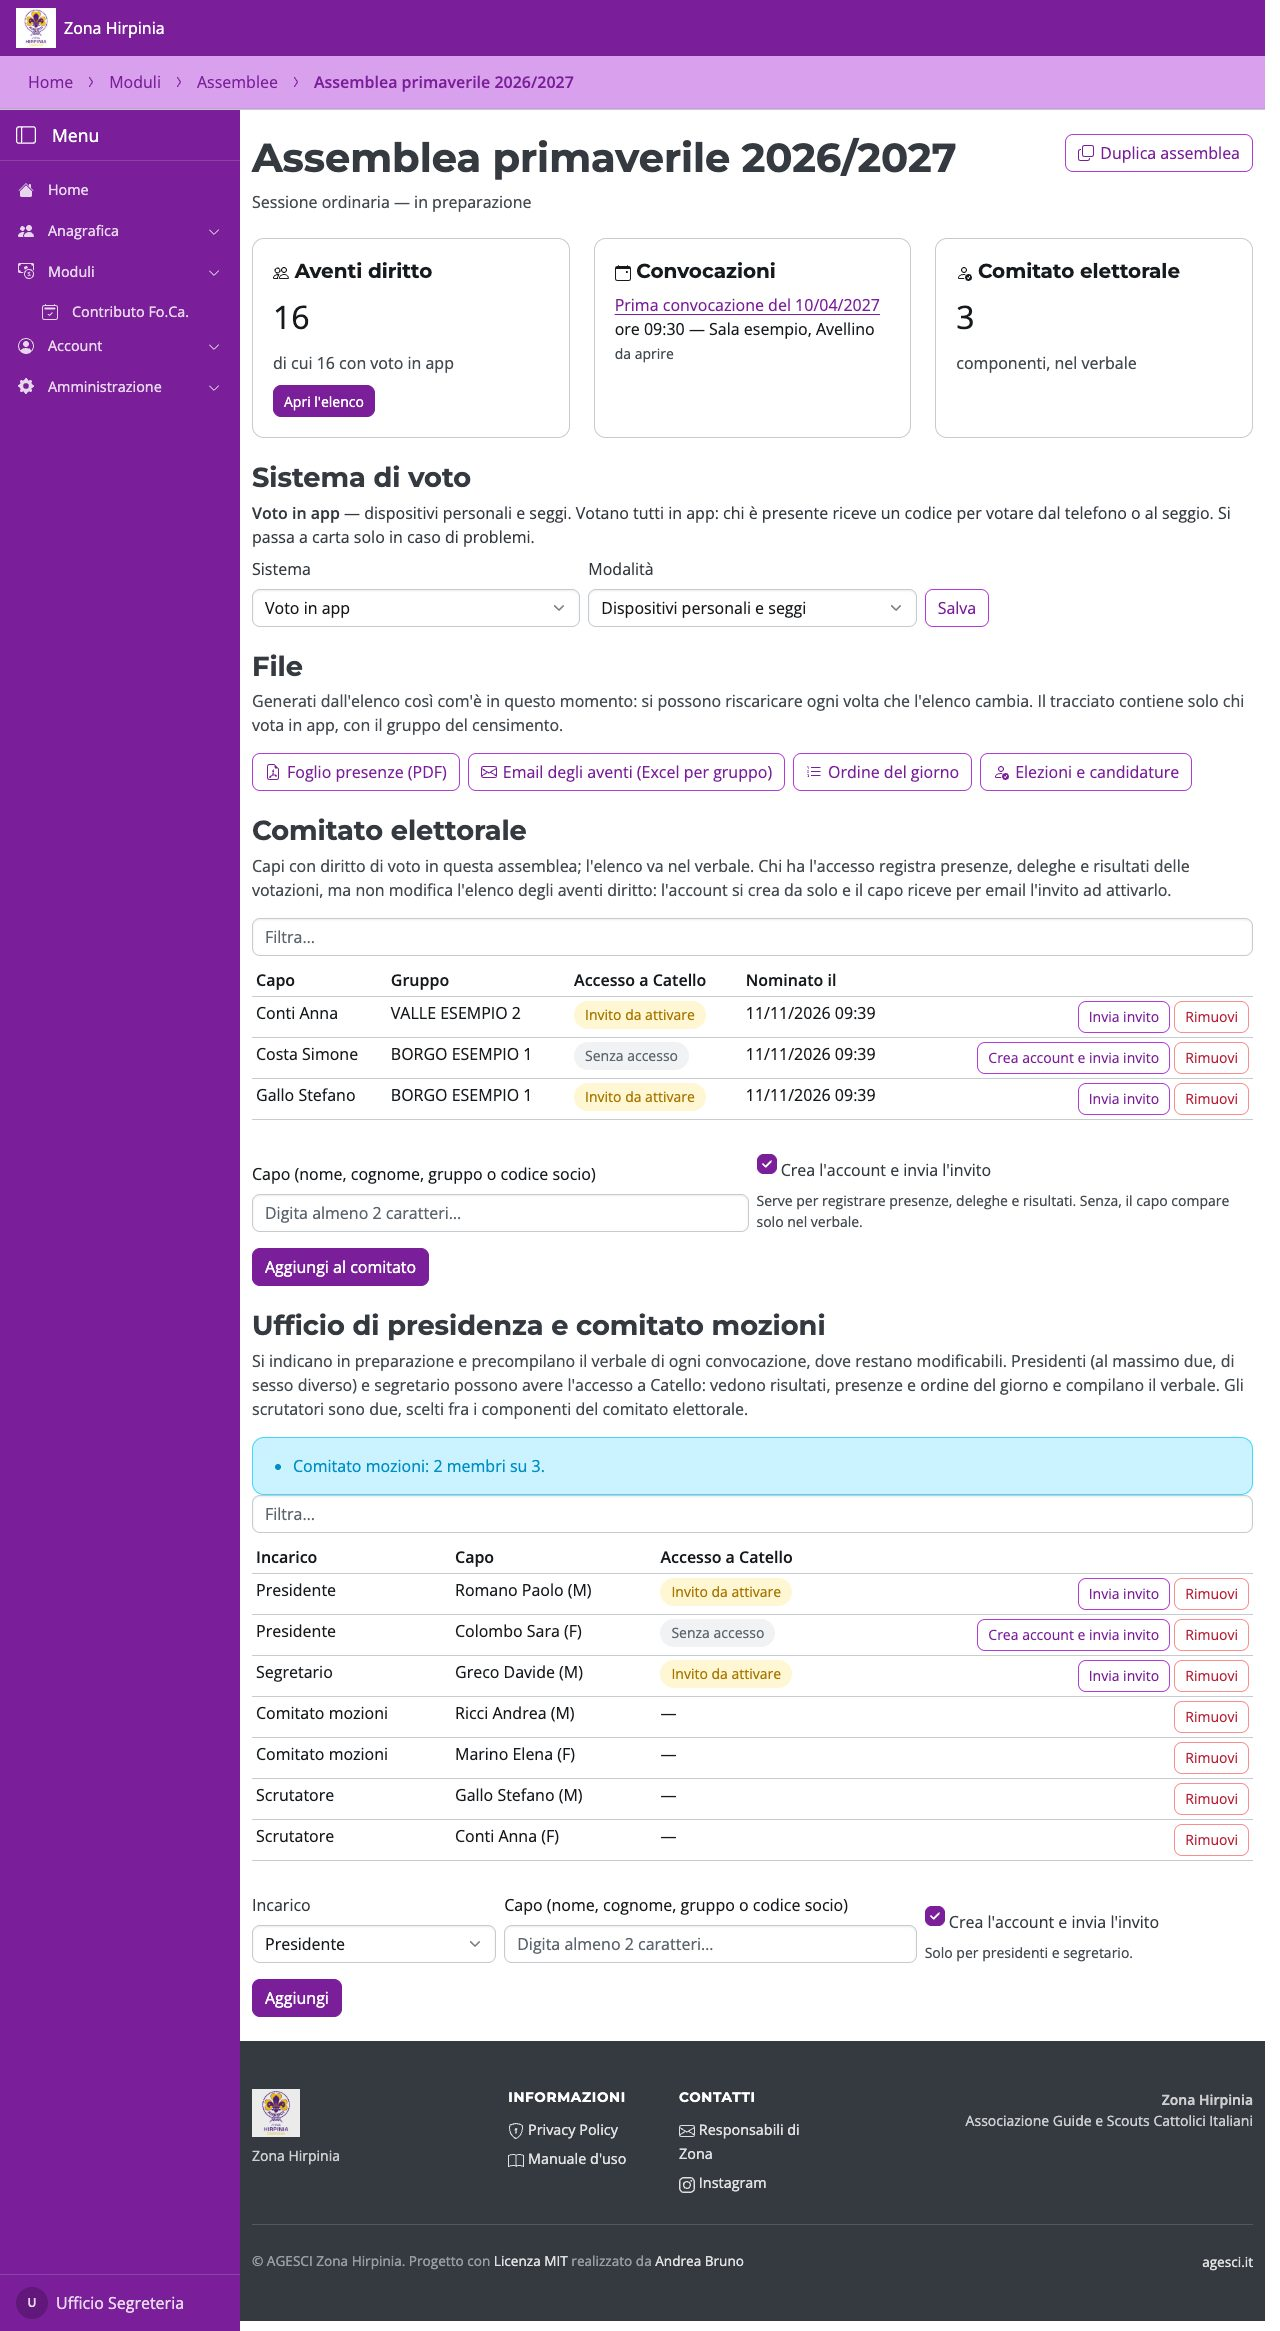
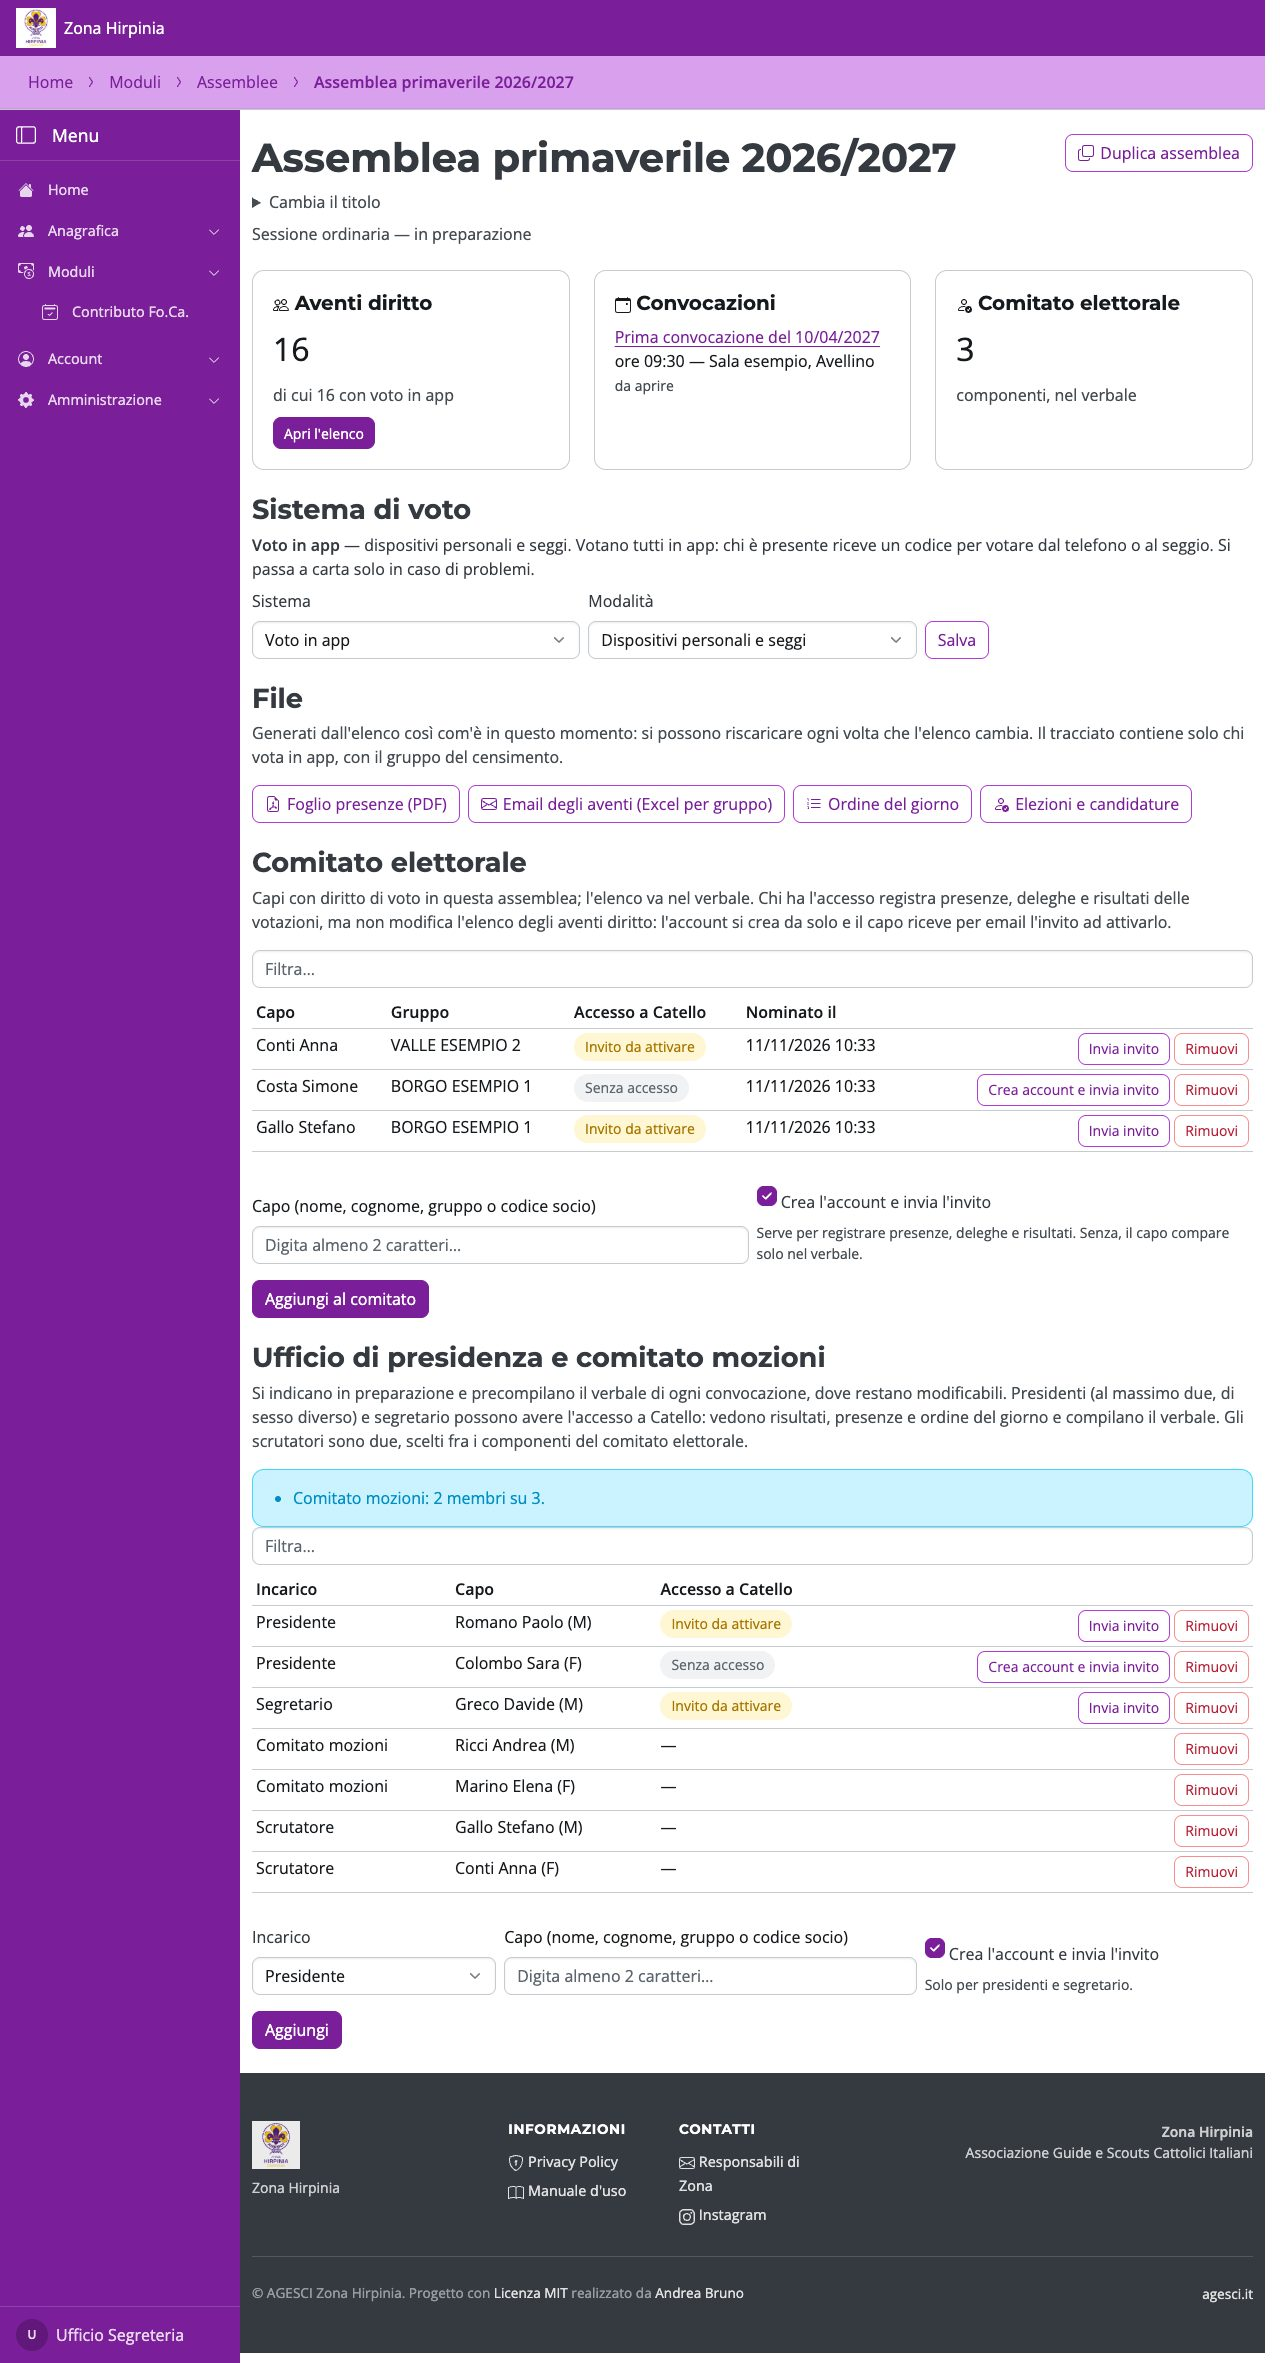
Assemblee: titolo facoltativo dell'assemblea
Si sceglie alla creazione e alla duplicazione e si cambia dalla pagina
dell'assemblea; se vuoto il nome resta «Assemblea autunnale 2026/2027».
Manuale di gestione aggiornato (testo e schermate).

diff --git a/templates/assemblee/assemblea_dettaglio.html b/templates/assemblee/assemblea_dettaglio.html
@@ -43,8 +43,20 @@
       </form>
     {% endif %}
   {% endif %}
+  {% if form_titolo %}
+    <details class="mb-3">
+      <summary class="fg-2">Cambia il titolo</summary>
+      <form method="post" action="{% url 'assemblee:assemblea_titolo' assemblea.pk %}" class="row g-3 align-items-end mt-3">
+        {% csrf_token %}
+        <div class="md:col-8">
+          <div class="form-field">{{ form_titolo.titolo.label_tag }}{{ form_titolo.titolo }}<span class="form-text">{{ form_titolo.titolo.help_text }}</span></div>
+        </div>
+        <div class="md:col-auto"><button type="submit" class="btn-outline theme-primary">Salva</button></div>
+      </form>
+    </details>
+  {% endif %}
   <p class="fg-2 mb-7">
-    Sessione {{ assemblea.get_sessione_display|lower }} —
+    {% if assemblea.titolo %}Assemblea {{ assemblea.get_tipo_display|lower }} {{ assemblea.anno_scout|add:"-1" }}/{{ assemblea.anno_scout }} — {% endif %}Sessione {{ assemblea.get_sessione_display|lower }} —
     {% if assemblea.conclusa %}conclusa il {{ assemblea.conclusa_il|date:"d/m/Y" }}{% else %}in preparazione{% endif %}
   </p>
 

diff --git a/apps/assemblee/views.py b/apps/assemblee/views.py
@@ -57,6 +57,7 @@ from .forms import (
     PosizioneForm,
     PuntoOdGForm,
     QualificheForm,
+    TitoloAssembleaForm,
     TrasferisciForm,
     VariazioneRappresentanteForm,
     VerbaleForm,
@@ -194,6 +195,7 @@ class AssembleaDuplicaView(GestisceAssembleeMixin, BreadcrumbExtraMixin, View):
         origine = get_object_or_404(Assemblea, pk=pk)
         prima = origine.sedute.order_by("convocazione").first()
         iniziali = {
+            "titolo": origine.titolo,
             "tipo": origine.tipo,
             "anno_scout": origine.anno_scout,
             "sessione": origine.sessione,
@@ -355,6 +357,21 @@ class ElezioniView(GestisceAssembleeMixin, BreadcrumbExtraMixin, View):
         return redirect(reverse("assemblee:elezioni", args=[pk]) + ancora)
 
 
+class AssembleaTitoloView(GestisceAssembleeMixin, View):
+    """Titolo dell'assemblea: cambia solo il nome mostrato (pagine, PDF,
+    email), anche ad assemblea conclusa."""
+
+    def post(self, request, pk):
+        assemblea = get_object_or_404(Assemblea, pk=pk)
+        form = TitoloAssembleaForm(request.POST, instance=assemblea)
+        if form.is_valid():
+            form.save()
+            messages.success(request, f"Titolo aggiornato: {assemblea}.")
+        else:
+            messages.error(request, "Titolo non valido.")
+        return redirect(reverse("assemblee:assemblea_dettaglio", args=[pk]))
+
+
 class AssembleaEliminaView(GestisceAssembleeMixin, BreadcrumbExtraMixin, View):
     """Eliminazione definitiva, solo per le assemblee di prova (prova.py)."""
 
@@ -414,6 +431,7 @@ class AssembleaDettaglioView(AccedeAssembleeMixin, BreadcrumbExtraMixin, View):
             "totale_app": elenco.filter(vota_in_app=True).count(),
             "form_operatore": ComitatoAggiungiForm(assemblea=assemblea) if puo_gestire else None,
             "mailpit_configurato": mailpit_api.configurato(),
+            "form_titolo": TitoloAssembleaForm(instance=assemblea) if puo_gestire else None,
             "incarichi_per_ruolo": [
                 (ruolo, presidenza.incarichi(assemblea, ruolo)) for ruolo in RuoloAssemblea
             ],

diff --git a/apps/assemblee/tests/test_permessi_e_viste.py b/apps/assemblee/tests/test_permessi_e_viste.py
@@ -145,3 +145,39 @@ class TestViste:
         client.force_login(segreteria)
         response = client.post(f"/assemblee/{conclusa.pk}/comitato/aggiungi/", {"avente": 1})
         assert response.status_code == 403
+
+
+class TestTitolo:
+    def test_nome_automatico_o_titolo(self):
+        assemblea = Assemblea(tipo=TipoAssemblea.AUTUNNALE, anno_scout=2027)
+        assert str(assemblea) == "Assemblea autunnale 2026/2027"
+        assemblea.titolo = "Assemblea straordinaria sul bilancio"
+        assert str(assemblea) == "Assemblea straordinaria sul bilancio"
+        assemblea.di_prova = True
+        assert str(assemblea) == "Assemblea straordinaria sul bilancio (di prova)"
+
+    def test_creazione_e_modifica_del_titolo(self, client, segreteria):
+        client.force_login(segreteria)
+        client.post(
+            "/assemblee/nuova/",
+            {
+                "titolo": "Assemblea di primavera",
+                "tipo": TipoAssemblea.PRIMAVERILE,
+                "anno_scout": 2027,
+                "sessione": "ORDINARIA",
+                "data_convocazione": "2027-04-10",
+                "elenco_iniziale": "VUOTA",
+            },
+        )
+        assemblea = Assemblea.objects.get()
+        assert assemblea.titolo == "Assemblea di primavera"
+        pagina = client.get(f"/assemblee/{assemblea.pk}/").content.decode()
+        assert "Assemblea di primavera" in pagina and "Assemblea primaverile 2026/2027" in pagina
+        client.post(f"/assemblee/{assemblea.pk}/titolo/", {"titolo": ""})
+        assemblea.refresh_from_db()
+        assert str(assemblea) == "Assemblea primaverile 2026/2027"
+
+    def test_titolo_solo_dai_gestori(self, client, capo, assemblea):
+        OperatoreVoto.objects.create(assemblea=assemblea, utente=capo)
+        client.force_login(capo)
+        assert client.post(f"/assemblee/{assemblea.pk}/titolo/", {"titolo": "X"}).status_code == 403

diff --git a/apps/assemblee/models.py b/apps/assemblee/models.py
@@ -40,6 +40,13 @@ class ModalitaVoto(models.TextChoices):
 
 
 class Assemblea(models.Model):
+    # Facoltativo: se vuoto il nome si compone da tipo e anno (__str__).
+    titolo = models.CharField(
+        "Titolo",
+        max_length=200,
+        blank=True,
+        help_text="Facoltativo. Se vuoto: «Assemblea autunnale 2026/2027» (tipo e anno).",
+    )
     tipo = models.CharField(max_length=20, choices=TipoAssemblea.choices)
     anno_scout = models.PositiveIntegerField(
         help_text="Anno associativo in cui si tiene l'assemblea (es. 2027 per il 2026/2027)."
@@ -103,7 +110,7 @@ class Assemblea(models.Model):
         ]
 
     def __str__(self) -> str:
-        nome = (
+        nome = self.titolo.strip() or (
             f"Assemblea {self.get_tipo_display().lower()} {self.anno_scout - 1}/{self.anno_scout}"
         )
         return f"{nome} (di prova)" if self.di_prova else nome

diff --git a/apps/assemblee/migrations/0018_titolo_assemblea.py b/apps/assemblee/migrations/0018_titolo_assemblea.py
@@ -1,0 +1,23 @@
+# Generated by Django 6.1.3 on 2026-11-11 09:32
+
+from django.db import migrations, models
+
+
+class Migration(migrations.Migration):
+
+    dependencies = [
+        ("assemblee", "0017_posizioni_e_candidature"),
+    ]
+
+    operations = [
+        migrations.AddField(
+            model_name="assemblea",
+            name="titolo",
+            field=models.CharField(
+                blank=True,
+                help_text="Facoltativo. Se vuoto: «Assemblea autunnale 2026/2027» (tipo e anno).",
+                max_length=200,
+                verbose_name="Titolo",
+            ),
+        ),
+    ]

diff --git a/apps/assemblee/forms.py b/apps/assemblee/forms.py
@@ -38,6 +38,7 @@ class AssembleaCreaForm(forms.ModelForm):
     class Meta:
         model = Assemblea
         fields = [
+            "titolo",
             "tipo",
             "anno_scout",
             "sessione",
@@ -114,6 +115,12 @@ class AssembleaNuovaForm(AssembleaCreaForm):
 
     def clean_elenco_iniziale(self) -> str:
         return self.cleaned_data.get("elenco_iniziale") or self.TUTTI
+
+
+class TitoloAssembleaForm(forms.ModelForm):
+    class Meta:
+        model = Assemblea
+        fields = ["titolo"]
 
 
 class AggiungiGruppoForm(forms.Form):

diff --git a/apps/assemblee/urls.py b/apps/assemblee/urls.py
@@ -10,6 +10,7 @@ urlpatterns = [
     path("<int:pk>/", views.AssembleaDettaglioView.as_view(), name="assemblea_dettaglio"),
     path("<int:pk>/duplica/", views.AssembleaDuplicaView.as_view(), name="assemblea_duplica"),
     path("<int:pk>/elimina/", views.AssembleaEliminaView.as_view(), name="assemblea_elimina"),
+    path("<int:pk>/titolo/", views.AssembleaTitoloView.as_view(), name="assemblea_titolo"),
     path("<int:pk>/email-prova/", views.EmailProvaView.as_view(), name="email_prova"),
     path(
         "<int:pk>/comitato/cerca/",

diff --git a/docs-manuali/gestione/preparazione.md b/docs-manuali/gestione/preparazione.md
@@ -6,7 +6,9 @@ Da **Assemblee** premi **Nuova assemblea**.
 
 ![Elenco delle assemblee](img/assemblee-elenco.jpg)
 
-Si indicano tipo (autunnale o primaverile), anno associativo, sessione e la **prima
+Si indicano un **titolo** facoltativo (se vuoto il nome è «Assemblea autunnale 2026/2027»,
+da tipo e anno; si può cambiare dopo con **Cambia il titolo** nella pagina
+dell'assemblea), tipo (autunnale o primaverile), anno associativo, sessione e la **prima
 convocazione** (data, ora, luogo). Le convocazioni successive si aggiungono solo se la
 precedente non raggiunge il quorum.
 
